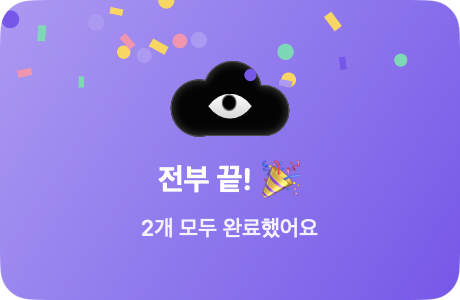
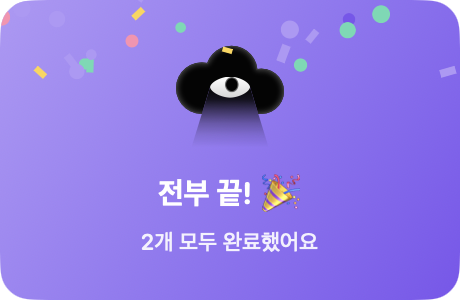
Cloud drawn to the artwork's proportions: flat base, beam of light from the eye

diff --git a/Sources/App/CloudArt.swift b/Sources/App/CloudArt.swift
@@ -1,43 +1,72 @@
 import CoreGraphics
 import Foundation
 
-/// The character: a black cloud with one eye (vector version of assets/character.png).
-/// Drawn with CoreGraphics so the menu bar icon and the SwiftUI views share one drawing, and the eye can
-/// blink and look around. All drawing assumes a top-left origin (flipped) context.
+/// The character: a black cloud with one eye and a beam of light from the eye (vector version of
+/// assets/character.png, proportions measured from it). Drawn with CoreGraphics so the menu bar icon and the
+/// SwiftUI views share one drawing, and the eye can blink and look around. Assumes a top-left origin context.
 enum CloudArt {
-    static let aspect: CGFloat = 930.0 / 595.0 // width / height of the cloud
+    /// Width / height of the cloud alone (931 × 587 px in the artwork).
+    static let cloudAspect: CGFloat = 931.0 / 587.0
+    /// The full artwork's beam reaches 0.49 cloud-heights below the cloud.
+    static let fullBeam: CGFloat = 0.49
+    /// Width / height of the whole drawing with a beam `beam` cloud-heights long.
+    static func aspect(beam: CGFloat = fullBeam) -> CGFloat { cloudAspect / (1 + beam) }
 
-    /// Draws the character filling `r`. `excited`: the eye goes wide and rolls around while the cloud hops.
-    static func draw(_ ctx: CGContext, in rect: CGRect, t: Double, excited: Bool) {
+    /// Draws the character filling `rect` (whose shape should be `aspect(beam:)`).
+    /// `excited`: the eye goes wide and rolls around while the cloud hops.
+    static func draw(_ ctx: CGContext, in rect: CGRect, t: Double, excited: Bool, beam: CGFloat = fullBeam) {
         var r = rect
         if excited { // hop inside the rect so nothing gets clipped
             r = rect.insetBy(dx: rect.width * 0.05, dy: rect.height * 0.05)
             r.origin.y -= abs(sin(t * 9)) * rect.height * 0.05
         }
-        let w = r.width, h = r.height
+        // Unit: x in cloud widths, y in cloud heights, origin at the cloud's top-left.
+        let w = r.width, h = r.width / cloudAspect
         func P(_ x: CGFloat, _ y: CGFloat) -> CGPoint { CGPoint(x: r.minX + x * w, y: r.minY + y * h) }
 
-        // Cloud: three puffs and a flat base, merged into one outline.
-        var cloud = CGPath(rect: CGRect(origin: P(0.242, 0.387), size: CGSize(width: 0.543 * w, height: 0.603 * h)), transform: nil)
-        for (x, y, rad) in [(0.242, 0.622, 0.242), (0.522, 0.387, 0.247), (0.785, 0.655, 0.215)] as [(CGFloat, CGFloat, CGFloat)] {
+        // Cloud: three round puffs on a straight base line.
+        var cloud = CGPath(rect: CGRect(origin: P(0.2385, 0.3808), size: CGSize(width: (0.7905 - 0.2385) * w, height: (1 - 0.3808) * h)), transform: nil)
+        for (x, y, rad) in [(0.2385, 0.6218, 0.2385), (0.5145, 0.3808, 0.2401), (0.7905, 0.6678, 0.2095)] as [(CGFloat, CGFloat, CGFloat)] {
             let c = P(x, y), rr = rad * w
             cloud = cloud.union(CGPath(ellipseIn: CGRect(x: c.x - rr, y: c.y - rr, width: rr * 2, height: rr * 2), transform: nil))
         }
+
+        // Eye geometry, and the beam that spreads down from the eye's corners.
+        let c = P(0.5005, 0.6065), hw = 0.1847 * w, fullH = 0.155 * h
+        let end = 1 + beam, spread: CGFloat = 0.195 // beam edge: x moves 0.195 widths per cloud height
+        let beamPath = CGMutablePath()
+        beamPath.move(to: CGPoint(x: c.x - hw, y: c.y))
+        beamPath.addLine(to: CGPoint(x: c.x + hw, y: c.y))
+        beamPath.addLine(to: P(0.5005 + 0.1847 + spread * (end - 0.6065), end))
+        beamPath.addLine(to: P(0.5005 - 0.1847 - spread * (end - 0.6065), end))
+        beamPath.closeSubpath()
+
+        // The cloud minus the beam, with a soft grey rim just inside its outer edge.
         ctx.saveGState()
-        ctx.addPath(cloud); ctx.clip()
+        ctx.addPath(cloud.subtracting(beamPath)); ctx.clip()
         ctx.setFillColor(CGColor(gray: 0.02, alpha: 1))
         ctx.fill(r.insetBy(dx: -2, dy: -2))
-        // Soft grey rim just inside the edge, like the artwork's glow.
-        ctx.setShadow(offset: .zero, blur: w * 0.06, color: CGColor(gray: 0.45, alpha: 1))
+        ctx.setShadow(offset: .zero, blur: w * 0.05, color: CGColor(gray: 0.42, alpha: 1))
         ctx.addPath(cloud)
-        ctx.setStrokeColor(CGColor(gray: 0.24, alpha: 1))
-        ctx.setLineWidth(max(0.8, w * 0.018))
+        ctx.setStrokeColor(CGColor(gray: 0.16, alpha: 1))
+        ctx.setLineWidth(max(0.8, w * 0.02))
         ctx.strokePath()
         ctx.restoreGState()
 
-        // Eye: an almond that closes when blinking, with a pupil that follows the gaze.
+        // Beam: black at the eye, fading out toward its end (measured from the artwork).
+        if beam > 0 {
+            ctx.saveGState()
+            ctx.addPath(beamPath); ctx.clip()
+            let alphas: [CGFloat] = [1, 0.9, 0.58, 0.3, 0.12, 0]
+            let beamFade = CGGradient(colorsSpace: CGColorSpaceCreateDeviceGray(),
+                                      colors: alphas.map { CGColor(gray: 0.02, alpha: $0) } as CFArray,
+                                      locations: [0, 0.2, 0.4, 0.6, 0.8, 1])!
+            ctx.drawLinearGradient(beamFade, start: CGPoint(x: c.x, y: c.y), end: P(0.5, end), options: [])
+            ctx.restoreGState()
+        }
+
+        // Eye: a slightly pointed oval (superellipse, n = 1.7) that closes when blinking; the pupil follows the gaze.
         let lid = excited ? 0 : blink(t)
-        let c = P(0.5, 0.597), hw = 0.183 * w, fullH = 0.165 * h
         let hh = fullH * (1 - lid)
         if lid > 0.85 { // closed: a soft curved line
             let p = CGMutablePath()
@@ -51,11 +80,11 @@ enum CloudArt {
             return
         }
         let eye = CGMutablePath()
-        eye.move(to: CGPoint(x: c.x - hw, y: c.y))
-        eye.addCurve(to: CGPoint(x: c.x + hw, y: c.y), control1: CGPoint(x: c.x - hw * 0.45, y: c.y - hh * 1.33),
-                     control2: CGPoint(x: c.x + hw * 0.45, y: c.y - hh * 1.33))
-        eye.addCurve(to: CGPoint(x: c.x - hw, y: c.y), control1: CGPoint(x: c.x + hw * 0.45, y: c.y + hh * 1.33),
-                     control2: CGPoint(x: c.x - hw * 0.45, y: c.y + hh * 1.33))
+        for i in 0..<96 {
+            let a = Double(i) / 96 * 2 * .pi, e = 2 / 1.7
+            let pt = CGPoint(x: c.x + hw * copysign(pow(abs(cos(a)), e), cos(a)), y: c.y + hh * copysign(pow(abs(sin(a)), e), sin(a)))
+            if i == 0 { eye.move(to: pt) } else { eye.addLine(to: pt) }
+        }
         eye.closeSubpath()
         ctx.saveGState()
         ctx.addPath(eye); ctx.clip()
@@ -63,8 +92,8 @@ enum CloudArt {
         let white = CGGradient(colorsSpace: space, colors: [CGColor(gray: 1, alpha: 1), CGColor(gray: 0.8, alpha: 1)] as CFArray, locations: nil)!
         ctx.drawLinearGradient(white, start: CGPoint(x: c.x, y: c.y - fullH), end: CGPoint(x: c.x, y: c.y + fullH), options: [])
         let g = excited ? CGPoint(x: cos(t * 7) * 0.8, y: sin(t * 7) * 0.8) : gaze(t)
-        let pc = CGPoint(x: c.x + g.x * hw * 0.45, y: c.y + g.y * fullH * 0.35)
-        let prx = 0.062 * w, pry = 0.11 * h
+        let pc = CGPoint(x: c.x + g.x * hw * 0.4, y: c.y + g.y * fullH * 0.3)
+        let prx = 0.0623 * w, pry = 0.1107 * h
         // Pupil: black with a soft grey edge.
         ctx.setFillColor(CGColor(gray: 0.38, alpha: 1))
         ctx.fillEllipse(in: CGRect(x: pc.x - prx, y: pc.y - pry, width: prx * 2, height: pry * 2))

diff --git a/Sources/App/Views.swift b/Sources/App/Views.swift
@@ -23,7 +23,7 @@ struct Buddy: View {
                 }
             }
         }
-        .aspectRatio(CloudArt.aspect, contentMode: .fit)
+        .aspectRatio(CloudArt.aspect(), contentMode: .fit)
     }
 }
 
@@ -92,7 +92,7 @@ struct ContentView: View {
     private var header: some View {
         HStack(spacing: 12) {
             Buddy(excited: excited)
-                .frame(width: 52, height: 34)
+                .frame(width: 44, height: 42)
                 .shadow(color: .black.opacity(0.25), radius: 4, y: 2)
                 .scaleEffect(bounce ? 1.18 : 1)
                 .rotationEffect(.degrees(bounce ? -8 : 0))
@@ -203,7 +203,7 @@ struct CheerCard: View {
     var body: some View {
         ZStack {
             VStack(spacing: 8) {
-                Buddy(excited: true).frame(width: 66, height: 43)
+                Buddy(excited: true).frame(width: 60, height: 57)
                 Text("전부 끝! 🎉").font(.system(size: 15, weight: .bold, design: .rounded)).foregroundStyle(.white)
                 Text("\(count)개 모두 완료했어요").font(.system(size: 11, weight: .medium, design: .rounded))
                     .foregroundStyle(.white.opacity(0.9))

diff --git a/Sources/App/main.swift b/Sources/App/main.swift
@@ -58,9 +58,10 @@ final class AppDelegate: NSObject, NSApplicationDelegate, NSPopoverDelegate {
         if key == lastEyes { return }
         lastEyes = key
         let h: CGFloat = 26 // fills the (notch-height) menu bar
-        b.image = NSImage(size: NSSize(width: (h * CloudArt.aspect).rounded(), height: h), flipped: true) { r in
+        let beam: CGFloat = 0.3 // a shorter beam than the artwork's, so the cloud stays readable at this size
+        b.image = NSImage(size: NSSize(width: (h * CloudArt.aspect(beam: beam)).rounded(), height: h), flipped: true) { r in
             guard let ctx = NSGraphicsContext.current?.cgContext else { return false }
-            CloudArt.draw(ctx, in: r.insetBy(dx: 0, dy: 1.5), t: t, excited: excited)
+            CloudArt.draw(ctx, in: r, t: t, excited: excited, beam: beam)
             return true
         }
     }

diff --git a/README.md b/README.md
@@ -3,7 +3,7 @@
 <img src="docs/character.png" width="88" align="right">
 
 macOS 메뉴바에 상주하는 간단한 투두리스트.
-메뉴바의 눈 달린 구름(가끔 눈을 깜빡여요)을 누르면 할 일 목록이 열리고, 옆 숫자는 남은 할 일 개수예요.
+메뉴바의 눈 달린 구름(눈에서 빛이 나오고, 가끔 깜빡여요)을 누르면 할 일 목록이 열리고, 옆 숫자는 남은 할 일 개수예요.
 터미널(또는 Claude Code)에서 `todo` 명령으로 추가·완료·삭제하면 앱에 바로 반영됩니다.
 할 일을 전부 끝내면 구름이 통통 뛰며 눈을 굴리고 컨페티가 터져요 🎉
 
